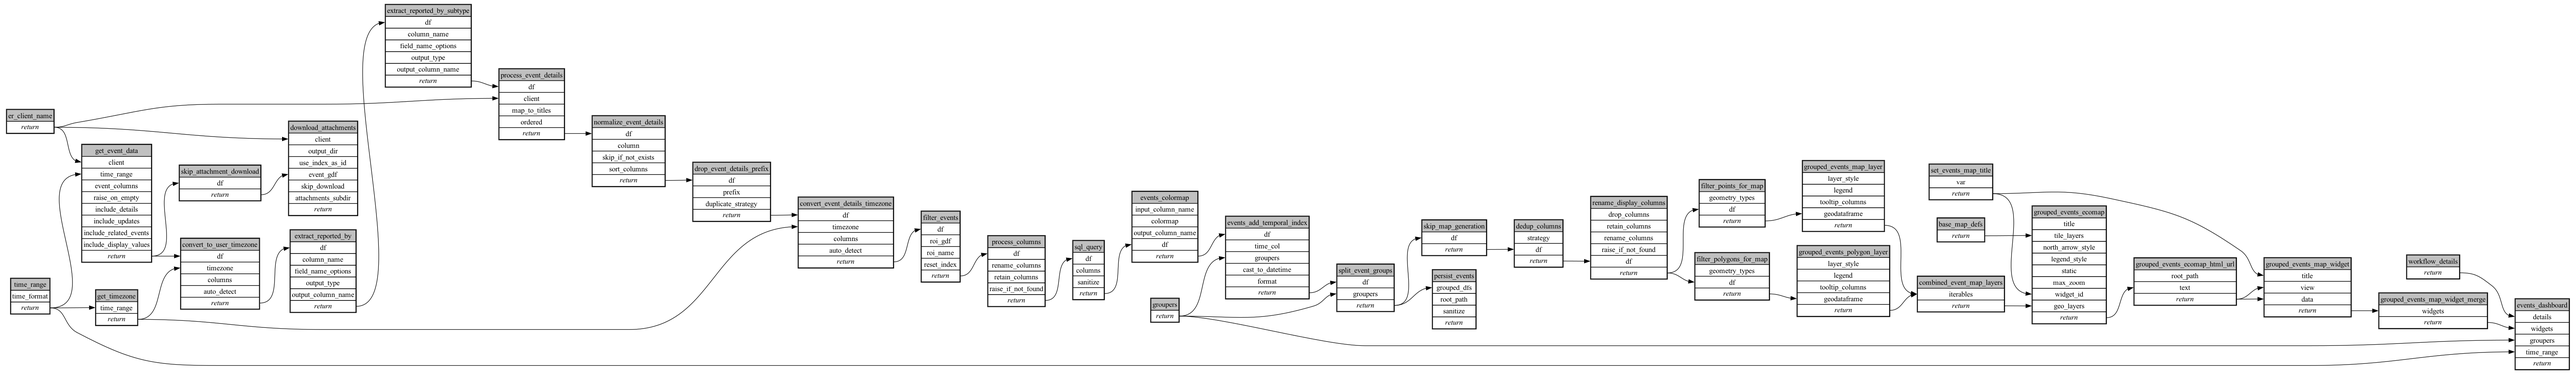
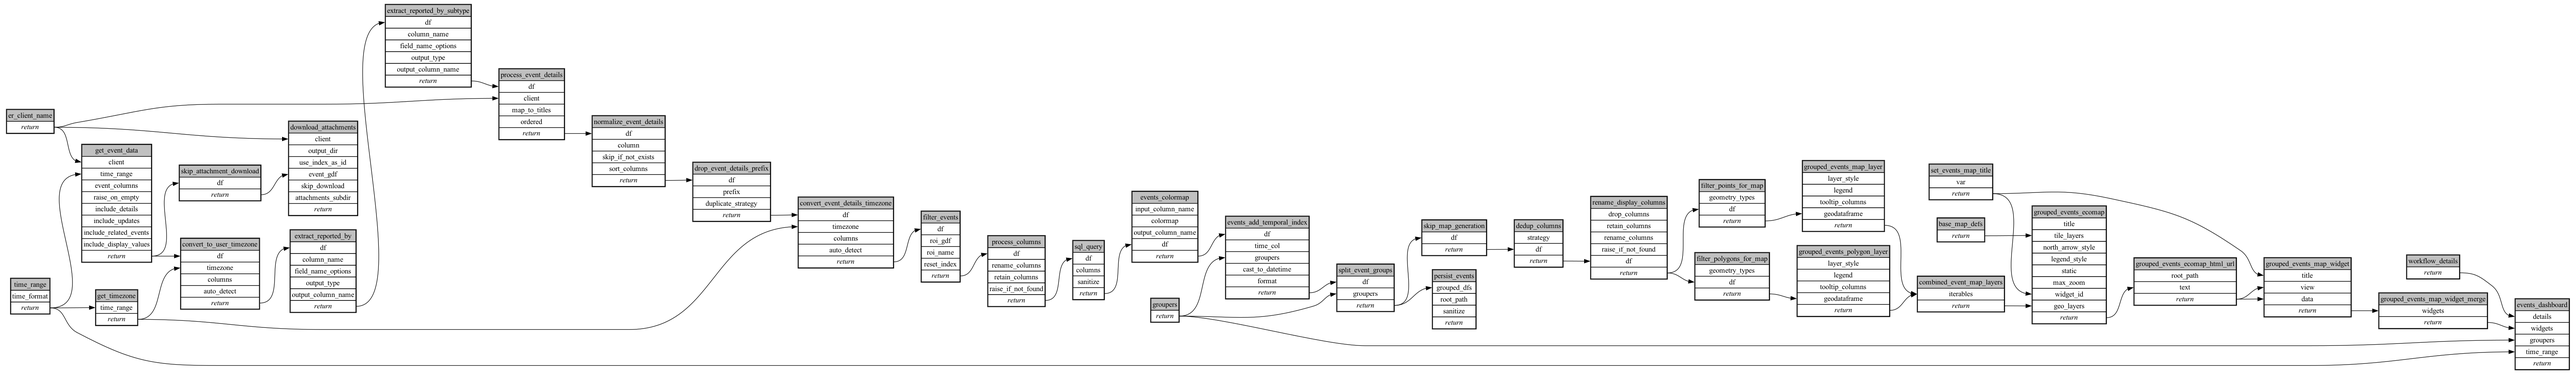
feat: form redesign A (node reorder, section renames, rjsf labels)

diff --git a/ecoscope-workflows-download-events-workflow/tests/test_results.py b/ecoscope-workflows-download-events-workflow/tests/test_results.py
@@ -2,6 +2,8 @@
 
 import asyncio
 import json
+import re
+from pathlib import Path
 from typing import Any, Coroutine
 
 import pytest
@@ -9,6 +11,10 @@ import pytest_check.context_manager
 from conftest import MATCHSPEC_OVERRIDE, ReconstructedOtelSpan, RunParams
 from syrupy import SnapshotAssertion
 from syrupy.matchers import path_type
+
+_UUID_RE = re.compile(
+    r"\b[0-9a-f]{8}-[0-9a-f]{4}-[0-9a-f]{4}-[0-9a-f]{4}-[0-9a-f]{12}\b"
+)
 
 
 def test_failure_response(
@@ -28,18 +34,21 @@ def test_failure_response(
 
 
 def test_dashboard_json(
-    no_data: bool, response_json_success: dict, snapshot_json: SnapshotAssertion
+    response_json_success: dict,
+    snapshot_json: SnapshotAssertion,
+    tmp_path: Path,
 ):
-    if no_data:
-        kws = {}
-    else:
-        exclude_results_data = {
-            f"result.views.{key}.{i}.data": (str,)
-            for key in response_json_success["result"]["views"]
-            for i, _ in enumerate(response_json_success["result"]["views"][key])
-        }
-        kws = {"matcher": path_type(exclude_results_data)}
-    assert response_json_success == snapshot_json(**kws)
+    # replace any UUIDs or paths to test output in the response_json
+    tmp_root = str(tmp_path.parent)
+
+    def _replace_ephemeral_values(*, data, path):
+        if not isinstance(data, str):
+            return data
+        if data.startswith(tmp_root):
+            return "tmpfile"
+        return _UUID_RE.sub("uuid", data)
+
+    assert response_json_success == snapshot_json(matcher=_replace_ephemeral_values)
 
 
 @pytest.mark.asyncio

diff --git a/ecoscope-workflows-download-events-workflow/ecoscope_workflows_download_events_workflow/dags/run_sequential_mock_io.py b/ecoscope-workflows-download-events-workflow/ecoscope_workflows_download_events_workflow/dags/run_sequential_mock_io.py
@@ -117,6 +117,23 @@ def main(params: dict[str, Any], validate_params_schema: bool = True):
         .call()
     )
 
+    er_client_name = (
+        task(set_er_connection)
+        .validate()
+        .set_task_instance_id("er_client_name")
+        .handle_errors()
+        .with_tracing()
+        .skipif(
+            conditions=[
+                any_is_empty_df,
+                any_dependency_skipped,
+            ],
+            unpack_depth=1,
+        )
+        .partial(**(params.get("er_client_name") or {}))
+        .call()
+    )
+
     time_range = (
         task(set_time_range)
         .validate()
@@ -148,23 +165,6 @@ def main(params: dict[str, Any], validate_params_schema: bool = True):
             unpack_depth=1,
         )
         .partial(time_range=time_range, **(params.get("get_timezone") or {}))
-        .call()
-    )
-
-    er_client_name = (
-        task(set_er_connection)
-        .validate()
-        .set_task_instance_id("er_client_name")
-        .handle_errors()
-        .with_tracing()
-        .skipif(
-            conditions=[
-                any_is_empty_df,
-                any_dependency_skipped,
-            ],
-            unpack_depth=1,
-        )
-        .partial(**(params.get("er_client_name") or {}))
         .call()
     )
 

diff --git a/ecoscope-workflows-download-events-workflow/ecoscope_workflows_download_events_workflow/dags/run_sequential.py b/ecoscope-workflows-download-events-workflow/ecoscope_workflows_download_events_workflow/dags/run_sequential.py
@@ -97,6 +97,23 @@ def main(params: dict[str, Any], validate_params_schema: bool = True):
         .call()
     )
 
+    er_client_name = (
+        task(set_er_connection)
+        .validate()
+        .set_task_instance_id("er_client_name")
+        .handle_errors()
+        .with_tracing()
+        .skipif(
+            conditions=[
+                any_is_empty_df,
+                any_dependency_skipped,
+            ],
+            unpack_depth=1,
+        )
+        .partial(**(params.get("er_client_name") or {}))
+        .call()
+    )
+
     time_range = (
         task(set_time_range)
         .validate()
@@ -128,23 +145,6 @@ def main(params: dict[str, Any], validate_params_schema: bool = True):
             unpack_depth=1,
         )
         .partial(time_range=time_range, **(params.get("get_timezone") or {}))
-        .call()
-    )
-
-    er_client_name = (
-        task(set_er_connection)
-        .validate()
-        .set_task_instance_id("er_client_name")
-        .handle_errors()
-        .with_tracing()
-        .skipif(
-            conditions=[
-                any_is_empty_df,
-                any_dependency_skipped,
-            ],
-            unpack_depth=1,
-        )
-        .partial(**(params.get("er_client_name") or {}))
         .call()
     )
 

diff --git a/ecoscope-workflows-download-events-workflow/README.md b/ecoscope-workflows-download-events-workflow/README.md
@@ -5,8 +5,8 @@
 
 ```yaml
 # fingerprint:
-artifacts_sha256_basic: 67c06982e4052ae686687eddf2aec8b9c83aef228182c87cd8b7d70a5e2b2d23
-artifacts_sha256_strict: 4aad1285963d07f384d488a9596e1f01cbcea29891e6ddbd0005a5265d432b69
+artifacts_sha256_basic: 11a7e9b9a85a83ed019ad9f8ee2b9231af896ffc6cc1966404eb0e4cc226478d
+artifacts_sha256_strict: 88f297c290c304ee075aeb2efb598f6edc4cb1d6b5343acf8a7958736abc3b17
 installed_requirements:
 - channel: https://repo.prefix.dev/ecoscope-workflows/
   name: ecoscope-platform
@@ -15,7 +15,7 @@ installed_requirements:
   name: setuptools
   version: {version: ==81.0.0}
 params_sha256: 8d7cc6eff1d54a89a75acd5950451595b1b120e275cf9b47f9b5f97ca8938aa4
-spec_sha256: 70d2263825b4916fda687c2eab77586d54bbaceb30eff314d6f148b3ab4d8c89
+spec_sha256: 7a8fae0ded3e60d214d05f0a37e64b95bfd67d2db154fa82fab9de463fbb2f2d
 
 ```
 
